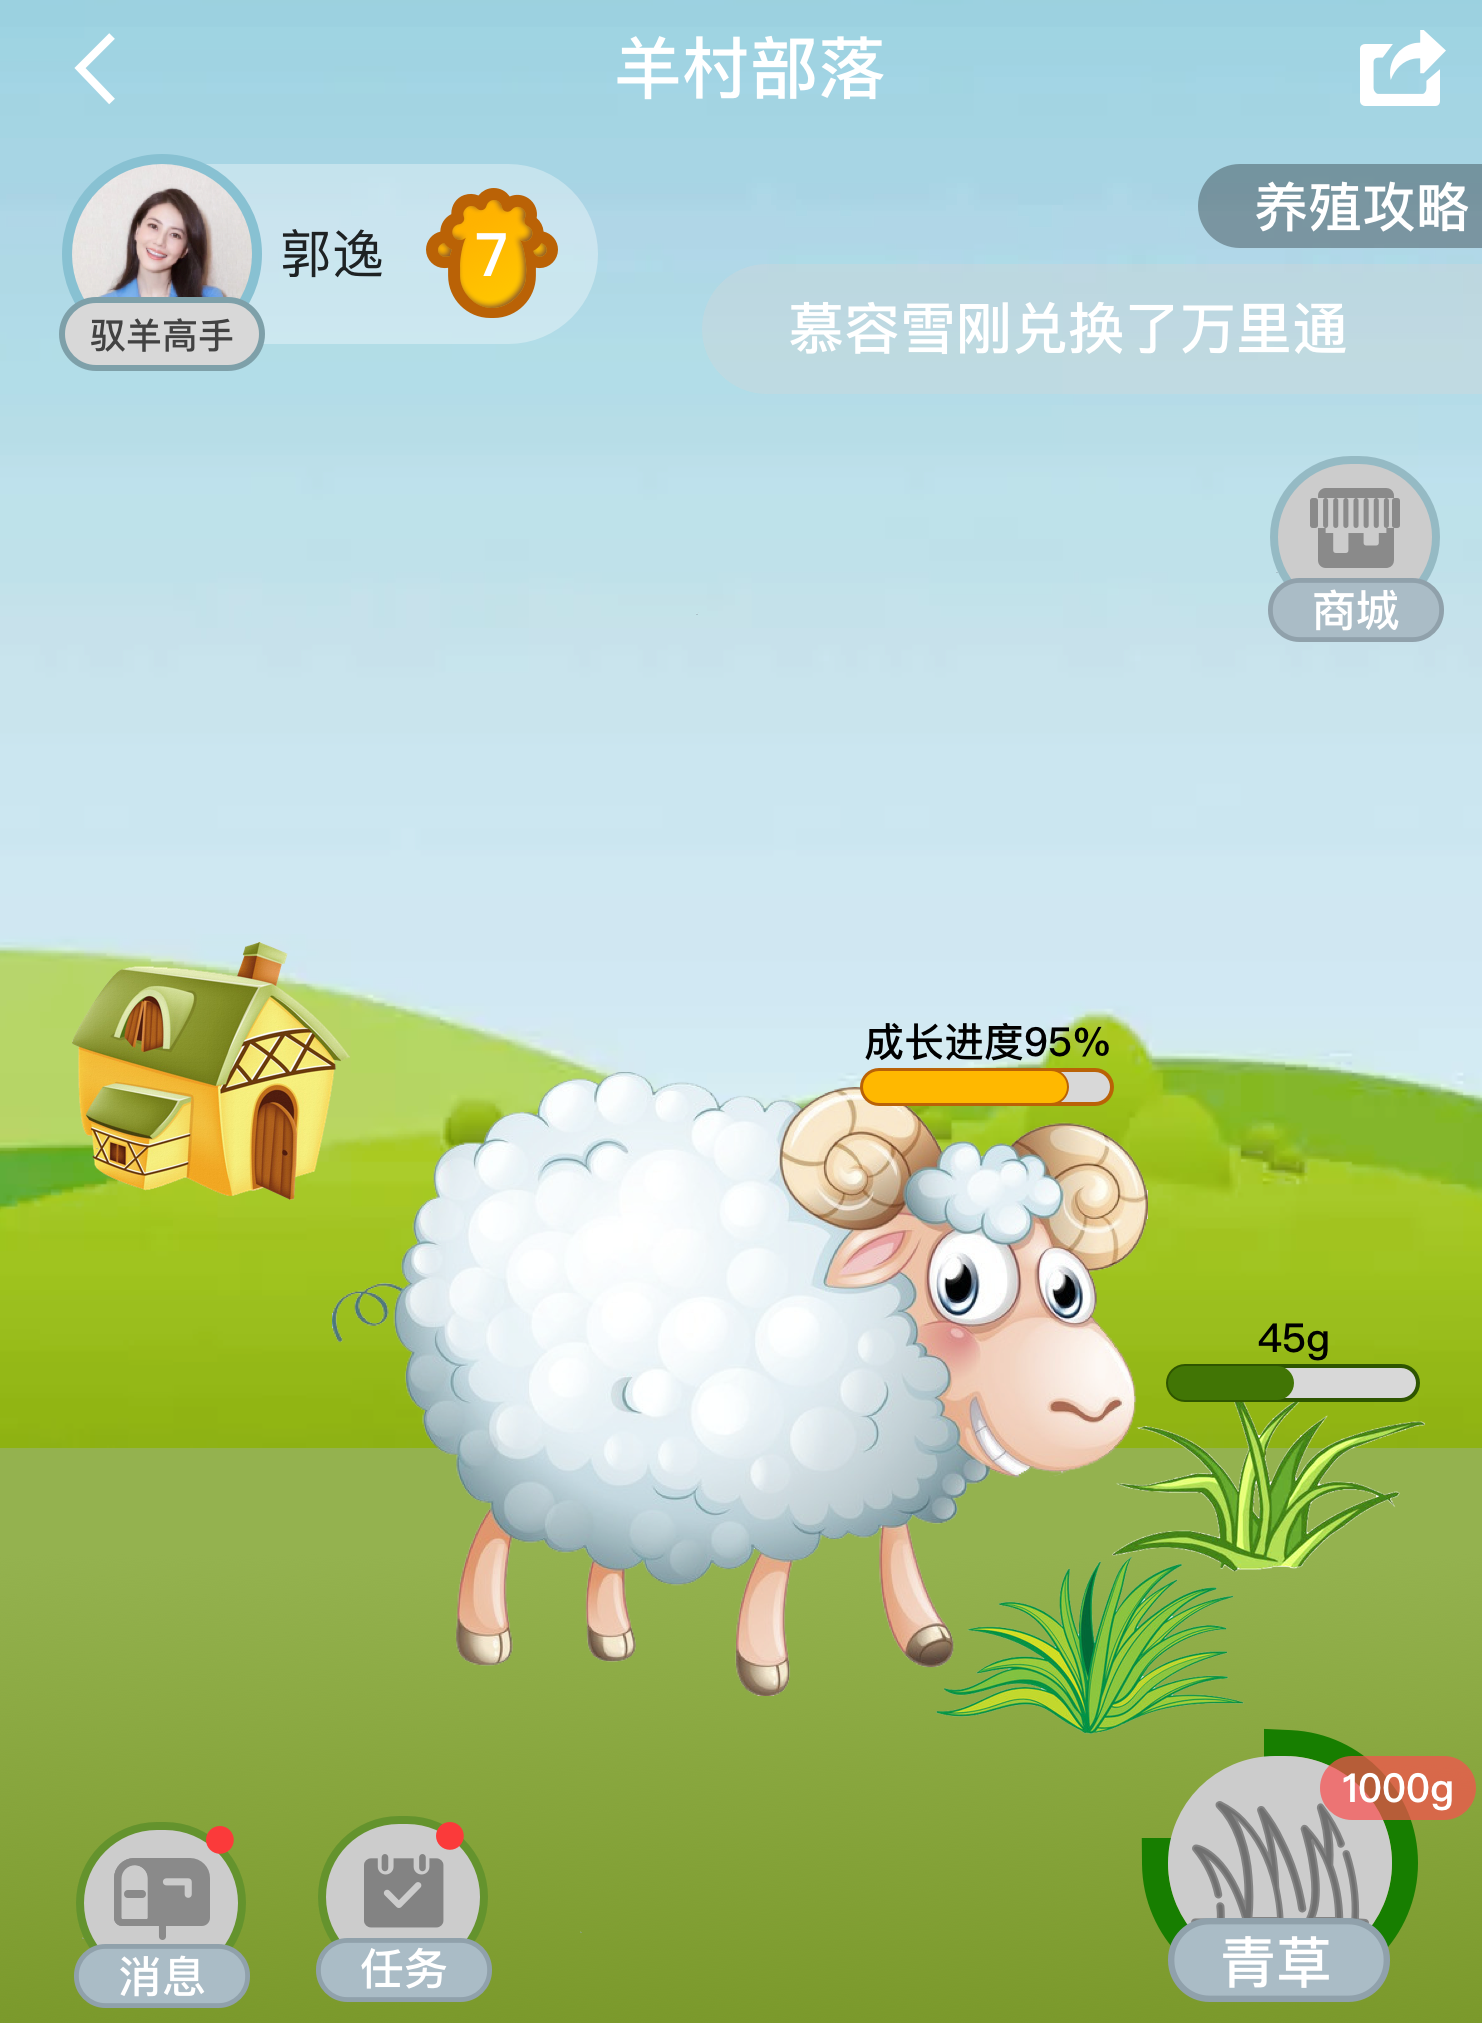
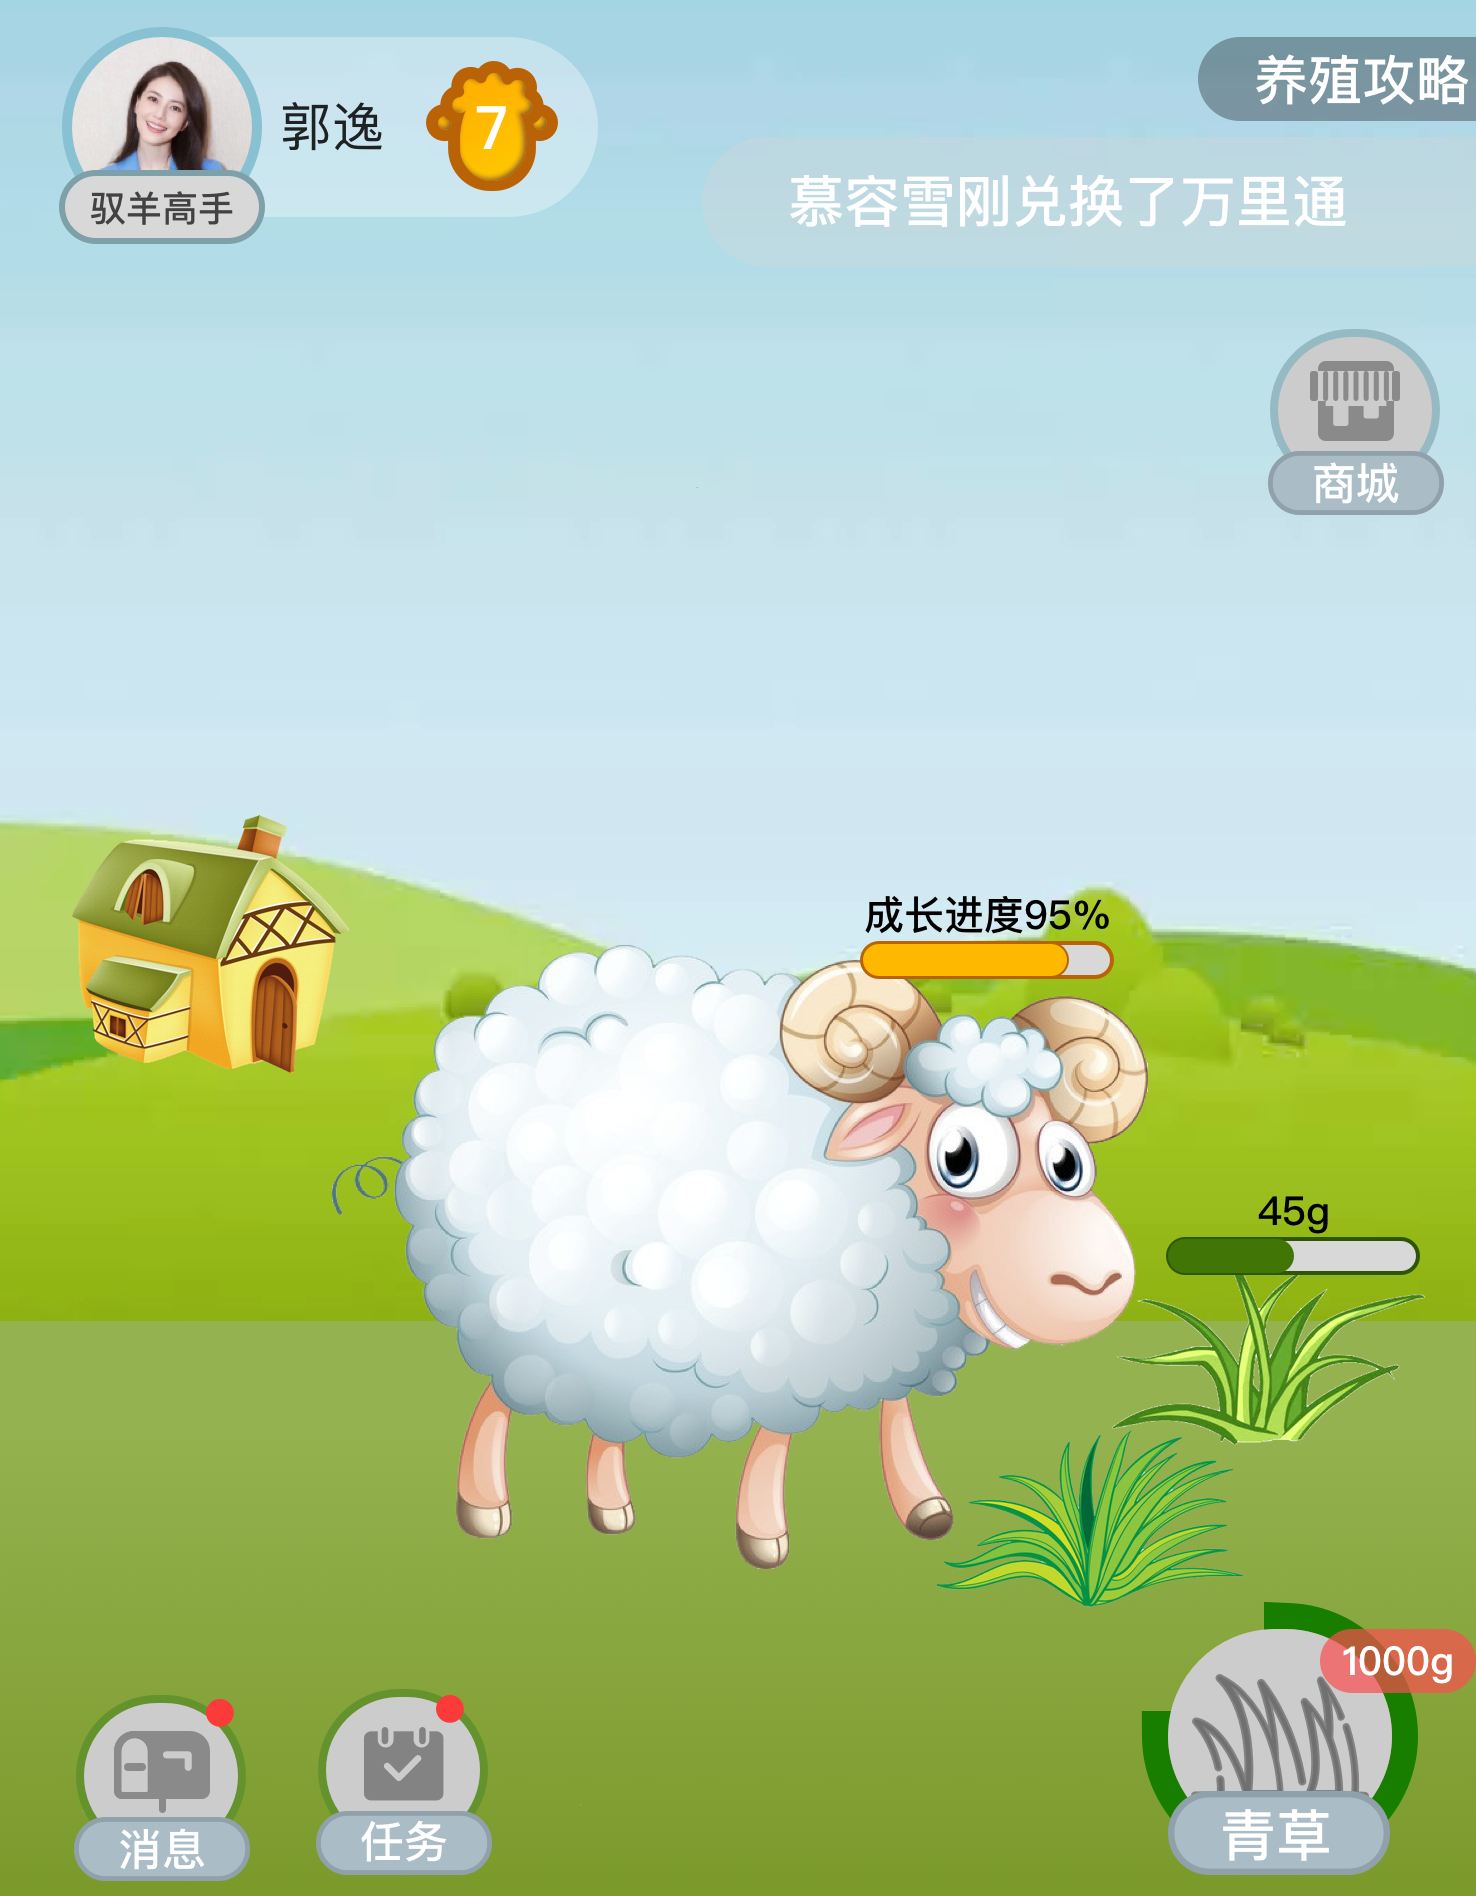
update sheep

diff --git a/src/module/sheep/pages/gave.jsx b/src/module/sheep/pages/gave.jsx
@@ -1,4 +1,5 @@
 import React, { Component } from 'react'
+import { withRouter } from 'react-router-dom'
 import './gave.css'
 
 import rankicon_1 from '../imgs/rankicon_1.png'
@@ -16,50 +17,109 @@ import headicon_8 from '../imgs/headicon_8.png'
 import headicon_9 from '../imgs/headicon_9.png'
 
 import GaveList from '../components/gave'
+import Nav from '../../../components/nav'
 
-export default class Gave extends Component {
+class Gave extends Component {
     constructor(props){
         super(props)
         this.state = {
-            list: data
+            list: data,
+            self: selfData,
+            selectIndex: -1
         }
     }
+    cut = () => {
+        const { self } = this.state
+        if(self.willGave > 0){
+            this.setState({
+                self: {
+                    count: self.count,
+                    willGave: self.willGave - 1
+                }
+            })
+        }
+    }
+    add = () => {
+        const { self } = this.state
+        if(self.willGave < self.count){
+            this.setState({
+                self: {
+                    count: self.count,
+                    willGave: self.willGave + 1
+                }
+            })
+        }
+    }
+    canel = () => {
+        this.setState({
+            selectIndex: -1
+        })
+    }
+    gave = () => {
+        const {list, self, selectIndex} = this.state
+        list[selectIndex].gaved += self.willGave
+        self.count -= self.willGave
+        self.willGave = self.count >= 1 ? 1 : 0
+        this.setState({
+            list: list,
+            self: self,
+            selectIndex: -1
+        })
+
+    }
+    select = (index) => {
+        this.setState({
+            selectIndex: index
+        })
+    }
     render(){
+        const { self, list, selectIndex } = this.state
         return (<div style={{flex: 1}}>
-            {/* <div style={{marginLeft: 15, marginRight: 15}}>
-                <GaveList data={this.state.list}/>
-            </div> */}
-            <GivePanel />
+            <Nav title='村内' goback={() => {
+                this.props.history.goBack()
+            }}/>
+            <div style={{marginLeft: 15, marginRight: 15}}>
+                <GaveList data={list} select={this.select}/>
+            </div>
+            { selectIndex !== -1 && <GivePanel selfData={self} cut={this.cut} add={this.add} canel={this.canel} gave={this.gave} />}
         </div>)
     }
 }
 
+export default withRouter(Gave)
+
 const GivePanel = (props) => {
+    const { selfData, add, cut, canel, gave } = props
 
     return (
         <div className='givepanel-wrapper'>
             <div className='givepanel-root'>
                 <div className='givepanel-head'>
                     <span className='givepanel-head-left'>赠送好友羊羔</span>
-                    <span className='givepanel-head-right'>X</span>
+                    <span className='givepanel-head-right' onClick={canel}>X</span>
                 </div>
-                <span className='givepanel-title'>{`您目前有${1}只羊羔`}</span>
+                <span className='givepanel-title'>{`您目前有${selfData.count}只羊羔`}</span>
                 <div className='givepanel-panel'>
-                    <div className='givepanel-panel-left'><div className='givepanel-panel-left-text'></div></div>
-                    <div className='givepanel-panel-center'><span className='givepanel-panel-center-text'>xxxxxxxxxx</span></div>
-                    <div className='givepanel-panel-right'>
+                    <div className='givepanel-panel-left' onClick={cut}><div className='givepanel-panel-left-text'></div></div>
+                    <div className='givepanel-panel-center'><span className='givepanel-panel-center-text'>{`${selfData.willGave}只`}</span></div>
+                    <div className='givepanel-panel-right' onClick={add}>
                         <div>
                             <div className='givepanel-panel-right-text1'></div>
                             <div className='givepanel-panel-right-text2'></div>
                         </div>
                     </div>
                 </div>
-                <div className='givepanel-botton'>
+                <div className='givepanel-botton' onClick={gave}>
                     <span className='givepanel-botton-text'>立即赠送</span>
                 </div>
             </div>
         </div>
     )
+}
+
+const selfData = {
+    count: 15,
+    willGave: 1
 }
 
 const data = [{

diff --git a/src/module/sheep/components/gave.jsx b/src/module/sheep/components/gave.jsx
@@ -3,9 +3,11 @@ import './gave.css'
 
 export default class Gave extends Component {
     render(){
+        const { select, data} = this.props
+
         return (<div className='give-wrapper'>
             <div className='give-list'>
-                {this.props.data.map((item, index) => {
+                {data.map((item, index) => {
                     return (
                         <div className='give-item'>
                             <div className='give-item-left'>
@@ -22,7 +24,9 @@ export default class Gave extends Component {
                             <div className='give-item-right'>
                             { item.gaved !== undefined && <span className='give-item-right-gaved'>{`已赠送${item.gaved}只`}</span>}
                             <div className='give-item-right-box'>{ item.canGave 
-                                ? <span className='give-item-right-text'>赠送</span>
+                                ? <span className='give-item-right-text' onClick={() => {
+                                    select(index)
+                                }}>赠送</span>
                                 : <span className='give-item-right-text'>去邀请</span>
                             }</div>
                             </div>

diff --git a/src/module/sheep/pages/main.jsx b/src/module/sheep/pages/main.jsx
@@ -1,14 +1,19 @@
 import React, { Component } from 'react'
+import { withRouter } from 'react-router-dom'
 import './main.css'
 
 import Action from '../components/action'
 import Rank from '../components/rank'
+import Nav from '../../../components/nav'
 
 import main_background from '../imgs/main_background.png'
 
-export default class Main extends Component {
+class Main extends Component {
     render(){
         return (<div>
+            <Nav title='羊村部落' goback={() => {
+                this.props.history.goBack()
+            }}/>
             <img className='main_background' src={main_background}/>
             <div style={{marginLeft: 15}}>
                 <Action />
@@ -17,3 +22,5 @@ export default class Main extends Component {
         </div>)
     }
 }
+
+export default withRouter(Main)

diff --git a/src/module/sheep/router/index.js b/src/module/sheep/router/index.js
@@ -1,6 +1,7 @@
 import React from 'react'
 import { Route, Switch } from 'react-router'
-import { } from 'react-router-dom'
+import {  Link } from 'react-router-dom'
+import './index.css'
 
 import Main from '../pages/main'
 import Gave from '../pages/gave'
@@ -8,6 +9,12 @@ import Gave from '../pages/gave'
 
 const Routes = () => (
   <Switch>
+        <Route exact path='/sheep' render={() => {
+          return (<div className='nav-link-wrapper'>
+              <Link className='nav-link' to='/sheep/main'>主页</Link>
+              <Link className='nav-link' to='/sheep/gave'>赠送羊羔</Link>
+          </div>)
+        }} />
         <Route path='/sheep/main' component={Main} />
         <Route path='/sheep/gave' component={Gave} />
   </Switch>

diff --git a/src/module/sheep/pages/gave.css b/src/module/sheep/pages/gave.css
@@ -1,7 +1,15 @@
 .givepanel-wrapper{
-
+    width: 100vw;
+    height: 100vh;
+    position: absolute;
+    top: 0;
+    left: 0;
+    background-color: rgba(0, 0, 0, 0.5);
 }
 .givepanel-root{
+    position: absolute;
+    width: 100vw;
+    bottom: 0;
     background: #F7F7F7;
     border-radius: 7px;
     border-radius: 7px;
@@ -40,7 +48,8 @@
 .givepanel-panel{
     display: flex;
     flex-direction: row;
-    margin: 25pt 0;
+    width: 90vw;
+    margin: 25pt 5vw;
 }
 .givepanel-panel-left{
     background: #D6E7F0;
@@ -60,7 +69,8 @@
     height: 6pt;
 }
 .givepanel-panel-center{
-    width: 200pt;
+    display: flex;
+    flex: 1;
     background: white;
     display: flex;
     justify-content: center;

diff --git a/src/components/nav.css b/src/components/nav.css
@@ -1,0 +1,37 @@
+.nav-wrapper{
+    width: 100vw;
+    height: 44pt;
+    display: flex;
+    flex-direction: row;
+}
+
+.nav-back{
+    width: 44pt;
+    height: 44pt;
+    display: flex;
+    justify-content: center;
+    align-items: center;
+}
+.nav-back:active{
+    opacity: 0.4;
+}
+.nav-back-text{
+    font-size: 24pt;
+    text-align: center;
+}
+.nav-title{
+    display: flex;
+    flex: 1;
+    height: 44pt;
+    display: flex;
+    justify-content: center;
+    align-items: center;
+    margin-right: 44pt;
+}
+
+.nav-title-text{
+    font-family: PingFangSC-Medium;
+    font-size: 18pt;
+    color: rgba(0,0,0,0.85);
+    text-align: center;
+}

diff --git a/src/components/nav.jsx b/src/components/nav.jsx
@@ -1,0 +1,14 @@
+import React, { Component } from 'react'
+import './nav.css'
+
+export default class Nav extends Component{
+    render(){
+        const {goback = () => {}, title} = this.props
+        return (
+            <div className='nav-wrapper'>
+                <div className='nav-back' onClick={goback}><span className='nav-back-text'>{'<'}</span></div>
+                <div className='nav-title'><span className='nav-title-text'>{title}</span></div>
+            </div>
+        )
+    }
+}

diff --git a/src/module/sheep/index.js b/src/module/sheep/index.js
@@ -1,11 +1,15 @@
 import React from 'react'
 import Route from './router/index'
+import { Link } from 'react-router-dom'
 
 // export { Route }
 
 const omodule = () => {
     return (
-        <Route />
+        <div>
+
+            <Route />
+        </div>
     )
 }
 

diff --git a/src/module/sheep/router/index.css b/src/module/sheep/router/index.css
@@ -1,0 +1,12 @@
+.nav-link{
+    font-size: 20pt;
+    padding: 8pt;
+}
+
+.nav-link-wrapper{
+    display: flex;
+    flex: 1;
+    flex-direction: column;
+    align-items: center;
+    justify-content: center;
+}
